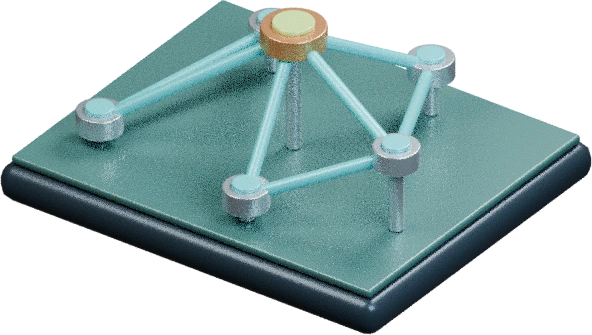
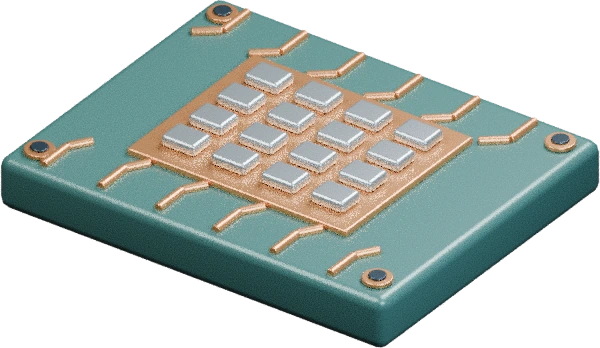
Rotate cabins continuously and update the tool preview at the summit

diff --git a/app.js b/app.js
@@ -115,6 +115,7 @@ function preview() {
   });
 }
 function render(selected = 0) {
+  hoveredCar = null;
   epoch++;
   busy = false;
   slots = [...all.slice(group * 7, group * 7 + 7), add];
@@ -143,6 +144,12 @@ function render(selected = 0) {
       c.append(image);
     }
     c.append(label);
+    c.onpointerenter = (e) => {
+      if (e.pointerType !== "touch") hoveredCar = c;
+    };
+    c.onpointerleave = () => {
+      if (hoveredCar === c) hoveredCar = null;
+    };
     c.onclick = () => {
       if (suppressClick) return;
       if (t === add) openForm();
@@ -172,15 +179,19 @@ function choose(i) {
   if (!busy) step();
 }
 function step() {
-  if (target === current) {
+  const n = slots.length,
+    spacing = (2 * Math.PI) / n;
+  const aligned = Math.round(-rotation / spacing);
+  const distance = mod(target - aligned, n);
+  const next = aligned + (distance === 0 ? 0 : distance <= n / 2 ? 1 : -1);
+  const destination = -next * spacing;
+  if (Math.abs(destination - rotation) < 1e-9 && target === current) {
     busy = false;
     preview();
     return;
   }
-  const n = slots.length,
-    d = mod(target - current, n) <= n / 2 ? 1 : -1,
-    offset = rotation,
-    change = (-d * 2 * Math.PI) / n,
+  const offset = rotation,
+    change = destination - offset,
     key = epoch;
   busy = true;
   preview();
@@ -194,7 +205,8 @@ function step() {
       requestAnimationFrame(frame);
       return;
     }
-    current = mod(current + d, n);
+    rotation = destination;
+    current = mod(next, n);
     if (!reduce.matches)
       $("preview").animate([{ opacity: 0.55 }, { opacity: 1 }], {
         duration: 210,
@@ -203,6 +215,39 @@ function step() {
   }
   requestAnimationFrame(frame);
 }
+const revolutionMs = 180000;
+let hoveredCar = null;
+let previousFrame = null;
+function cruise(now) {
+  const elapsed =
+    previousFrame === null ? 0 : Math.min(now - previousFrame, 100);
+  previousFrame = now;
+  if (
+    !busy &&
+    !hoveredCar &&
+    !document.hidden &&
+    !$("dialog").open &&
+    !reduce.matches
+  ) {
+    const turn = 2 * Math.PI;
+    rotation = -mod(-rotation + (turn * elapsed) / revolutionMs, turn);
+    position(rotation);
+    // Keep the last arrival selected until the next cabin crosses twelve o'clock.
+    const arrived = mod(
+      Math.floor((-rotation * slots.length) / turn + 1e-10),
+      slots.length,
+    );
+    if (arrived !== current) {
+      current = target = arrived;
+      preview();
+    }
+  }
+  requestAnimationFrame(cruise);
+}
+document.addEventListener("visibilitychange", () => {
+  previousFrame = null;
+});
+requestAnimationFrame(cruise);
 $("prev").onclick = () => choose(target - 1);
 $("next").onclick = () => choose(target + 1);
 let startX = null,

diff --git a/catalog.js b/catalog.js
@@ -1,7 +1,7 @@
 const records = [
   [
     "5G RRU 體積快速評估",
-    "RRU Volume",
+    "Thermal Sizing",
     "5G RRU Quick Volume Evaluation Tool",
     "體積評估",
     "VOLUME ESTIMATION",
@@ -10,7 +10,7 @@ const records = [
   ],
   [
     "導熱墊片與凸台尺寸評估",
-    "Pad & Stud",
+    "Component Management",
     "AI Thermal Pad and Stud Size Evaluation Tool",
     "尺寸評估",
     "PAD & STUD SIZING",
@@ -28,7 +28,7 @@ const records = [
   ],
   [
     "專案 TIM 材料管理",
-    "Project TIM",
+    "TIM Management",
     "Project TIM Management Tool",
     "材料管理",
     "MATERIAL MANAGEMENT",
@@ -36,18 +36,8 @@ const records = [
     "Project-TIM-management-tool",
   ],
   [
-    "RRU 熱阻網路視覺化",
-    "Thermal Net",
-    "RRU Thermal Network Visualizer",
-    "熱路分析",
-    "THERMAL NETWORK",
-    "開啟 FR1 RRU 專案的熱傳路徑，檢視熱源、節點與元件之間的熱阻關係。",
-    "RRU-Thermal-Network-Visualizer",
-    "project/FR1_RRU_starkcore/thermal-path",
-  ],
-  [
     "PA 焊接銅箔自動繪圖",
-    "PA Copper",
+    "Solder Drawings",
     "PA Solder Copper Auto Draw",
     "圖面生成",
     "COPPER LAYOUT",
@@ -56,12 +46,22 @@ const records = [
   ],
   [
     "TIM 點膠模擬器",
-    "Dispensing",
+    "TIM Dispensing",
     "TIM Dispensing Simulator",
     "製程模擬",
     "DISPENSE SIMULATION",
     "模擬導熱介面材料的點膠配置，觀察膠材分布並比較設計方案。",
     "TIM-Dispensing-Simulator",
+  ],
+  [
+    "RRU 熱阻網路視覺化",
+    "Thermal Network",
+    "RRU Thermal Network Visualizer",
+    "熱路分析",
+    "THERMAL NETWORK",
+    "開啟 FR1 RRU 專案的熱傳路徑，檢視熱源、節點與元件之間的熱阻關係。",
+    "RRU-Thermal-Network-Visualizer",
+    "project/FR1_RRU_starkcore/thermal-path",
   ],
 ];
 const defaults = records.map(

diff --git a/index.html b/index.html
@@ -128,7 +128,8 @@
             </div>
           </div>
           <div class="wheelFoot">
-            <span class="guide">Drag or use ← →</span><span id="groups"></span>
+            <span class="guide">Hover to pause · Drag or use ← →</span
+            ><span id="groups"></span>
           </div>
         </section>
         <section class="detail" aria-label="Selected tool">

diff --git a/style.css b/style.css
@@ -507,13 +507,15 @@ header {
   padding: 0.2cqw;
 }
 .car span {
-  height: 27%;
+  height: 28%;
   display: grid;
   place-items: center;
   font:
-    bold clamp(8px, 1.85cqw, 18px) / 1 Arial,
+    bold clamp(6px, 1.65cqw, 18px) / 1 Arial,
     sans-serif;
-  white-space: nowrap;
+  white-space: normal;
+  text-align: center;
+  line-height: 1;
   max-width: 92%;
   overflow: hidden;
 }
